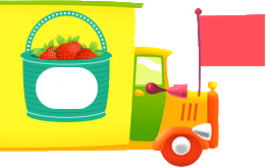
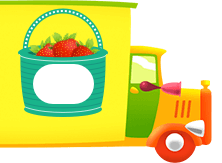
drag, movePos game 1

diff --git a/src/game1.js b/src/game1.js
@@ -1,23 +1,22 @@
 var Game1;
 Game1 = {
-    tail1 : null,
-    tail2 : null,
-    tail3 : null,
-    head1 : null,
-    head2 : null,
-    head3 : null,
-    stage1 : null,
+    tail1: null,
+    tail2: null,
+    tail3: null,
+    head1: null,
+    head2: null,
+    head3: null,
+    stage1: null,
 
-
-    preload: function () {
-        game.load.image("background", "assets/background.png")
-        game.load.image("player", "assets/player.png");
+     preload: function () {
+        game.load.image("background", "assets/background.png");
         game.load.image("tail", "assets/tail.png");
         game.load.image("head", "assets/head.png");
         game.load.image("stage1", "assets/stage1.png");
+        game.load.image("flag","assets/flag1.png")
     },
 
-    create: function () {
+     create: function() {
 
         game.physics.startSystem(Phaser.Physics.ARCADE);
 
@@ -28,23 +27,22 @@ Game1 = {
 
         bounds = new Phaser.Rectangle(game.world.width/2 - 473, 78, 608, 580);
 
-
         this.tail1 = game.add.sprite(this.stage1.x + 100, this.stage1.y + 75, "tail");
         game.physics.arcade.enable(this.tail1);
         this.tail1.inputEnabled = true;
-        this.tail1.input.enableDrag();
+        this.tail1.input.enableDrag(false,false);
         this.tail1.input.boundsRect = bounds;
 
         this.tail2 = game.add.sprite(this.stage1.x + 100, this.stage1.y + this.tail1.height + 100, "tail");
         game.physics.arcade.enable(this.tail2);
         this.tail2.inputEnabled = true;
-        this.tail2.input.enableDrag();
+        this.tail2.input.enableDrag(false,false);
         this.tail2.input.boundsRect = bounds;
 
         this.tail3 = game.add.sprite(this.stage1.x + 100, this.stage1.y + 2*this.tail1.height + 125, "tail");
         game.physics.arcade.enable(this.tail3);
         this.tail3.inputEnabled = true;
-        this.tail3.input.enableDrag();
+        this.tail3.input.enableDrag(false,false);
         this.tail3.input.boundsRect = bounds;
 
         this.head1 = game.add.sprite(this.stage1.x + this.stage1.width - 266 - 75, this.stage1.y + 75, "head" );
@@ -59,101 +57,36 @@ Game1 = {
         game.physics.arcade.enable(this.head3);
         this.head3.body.immovable = true;
 
+        var flag1 = game.add.image(this.head1.x+201,this.head1.y-6,"flag");
+        var flag2 = game.add.image(this.head2.x+201,this.head2.y-6,"flag");
+        var flag3 = game.add.image(this.head3.x+201,this.head3.y-6,"flag");
+
         var style = { font: "32px Arial", fill: "#000"};
         textTail1 = game.add.text(100, 100, 27, style);
         textTail1.anchor.set(0.5);
 
-        var style = { font: "32px Arial", fill: "#000"};
         textTail2 = game.add.text(100, 100, 36, style);
         textTail2.anchor.set(0.5);
 
-        var style = { font: "32px Arial", fill: "#000"};
         textTail3 = game.add.text(100, 100, 8, style);
         textTail3.anchor.set(0.5);
 
-        var style = { font: "32px Arial", fill: "#000"};
         textHead1 = game.add.text(100, 100, 42, style);
         textHead1.anchor.set(0.5);
 
-        var style = { font: "32px Arial", fill: "#000"};
         textHead2 = game.add.text(100, 100, 13, style);
         textHead2.anchor.set(0.5);
 
-        var style = { font: "32px Arial", fill: "#000"};
         textHead3 = game.add.text(100, 100, 34, style);
         textHead3.anchor.set(0.5);
+
     },
 
+ update: function  () {
 
-    update: function () {
-
-        if(game.input.mousePointer.isDown ) {
-            this.tail1.body.velocity.setTo(0, 0);
-        }
-        else {
-            if(this.tail1.x != this.stage1.x + 100) {
-                if (this.tail1.x < this.stage1.x + 325) {
-                    game.physics.arcade.moveToXY(this.tail1, this.stage1.x + 100, this.head1.y, 100, 350);
-                }
-                else {
-                    if (this.tail1.y < this.head2.y-this.head1.height/2){
-                        game.physics.arcade.moveToXY(this.tail1, this.head1.x - this.tail1.width, this.head1.y, 100, 250);
-                    }
-                    else {
-                        if (this.tail1.y < this.head3.y-this.head2.height/2) {
-                            game.physics.arcade.moveToXY(this.tail1, this.head1.x - this.tail1.width, this.head2.y, 100, 250);
-                        }
-                        else game.physics.arcade.moveToXY(this.tail1, this.head1.x - this.tail1.width, this.head3.y, 100, 250);
-                    }
-                }
-            }
-        }
-
-
-        if(game.input.mousePointer.isDown ) {
-            this.tail2.body.velocity.setTo(0, 0);
-        }
-        else {
-            if(this.tail2.x != this.stage1.x + 100) {
-                if (this.tail2.x < this.stage1.x + 325) {
-                    game.physics.arcade.moveToXY(this.tail2, this.stage1.x + 100, this.head2.y, 100, 350);
-                }
-                else {
-                    if (this.tail2.y < this.head2.y-this.head1.height/2){
-                        game.physics.arcade.moveToXY(this.tail2, this.head1.x - this.tail1.width, this.head1.y, 100, 250);
-                    }
-                    else {
-                        if (this.tail2.y < this.head3.y-this.head2.height/2) {
-                            game.physics.arcade.moveToXY(this.tail2, this.head1.x - this.tail1.width, this.head2.y, 100, 250);
-                        }
-                        else game.physics.arcade.moveToXY(this.tail2, this.head1.x - this.tail1.width, this.head3.y, 100, 250);
-                    }
-                }
-            }
-        }
-
-
-        if(game.input.mousePointer.isDown ) {
-            this.tail3.body.velocity.setTo(0, 0);
-        }
-        else {
-            if(this.tail3.x != this.stage1.x + 100) {
-                if (this.tail3.x < this.stage1.x + 325) {
-                    game.physics.arcade.moveToXY(this.tail3, this.stage1.x + 100, this.head3.y, 100, 350);
-                }
-                else {
-                    if (this.tail3.y < this.head2.y-this.head1.height/2){
-                        game.physics.arcade.moveToXY(this.tail3, this.head1.x - this.tail1.width, this.head1.y, 100, 250);
-                    }
-                    else {
-                        if (this.tail3.y < this.head3.y-this.head2.height/2) {
-                            game.physics.arcade.moveToXY(this.tail3, this.head1.x - this.tail1.width, this.head2.y, 100, 250);
-                        }
-                        else game.physics.arcade.moveToXY(this.tail3, this.head1.x - this.tail1.width, this.head3.y, 100, 250);
-                    }
-                }
-            }
-        }
+        this.moveTail(this.tail1,this.stage1.x + 100, this.head1.y);
+        this.moveTail(this.tail2,this.stage1.x + 100, this.head2.y);
+        this.moveTail(this.tail3,this.stage1.x + 100, this.head3.y);
 
         textTail1.x = Math.floor(this.tail1.x + this.tail1.width / 2 + 1);
         textTail1.y = Math.floor(this.tail1.y + this.tail1.height / 2 + 8);
@@ -164,18 +97,49 @@ Game1 = {
         textTail3.x = Math.floor(this.tail3.x + this.tail1.width / 2 + 1);
         textTail3.y = Math.floor(this.tail3.y + this.tail1.height / 2 + 8);
 
-        textHead1.x = Math.floor(this.head1.x + this.head1.width / 2 - 66);
+        textHead1.x = Math.floor(this.head1.x + this.head1.width / 2 - 47);
         textHead1.y = Math.floor(this.head1.y + this.head1.height / 2 + 8 );
 
-        textHead2.x = Math.floor(this.head2.x + this.head1.width / 2 - 66);
+        textHead2.x = Math.floor(this.head2.x + this.head1.width / 2 - 47);
         textHead2.y = Math.floor(this.head2.y + this.head1.height / 2 + 8 );
 
-        textHead3.x = Math.floor(this.head3.x + this.head1.width / 2 - 66);
+        textHead3.x = Math.floor(this.head3.x + this.head1.width / 2 - 47);
         textHead3.y = Math.floor(this.head3.y + this.head1.height / 2 + 8 );
+    },
+
+
+    moveTail: function (a,x,y) {
+        if(game.input.mousePointer.isDown ) {
+            a.body.velocity.setTo(0, 0);
+        }
+        else {
+            if(a.x !== this.stage1.x + 100) {
+                if (a.x < this.stage1.x + 325) {
+                    game.physics.arcade.moveToXY(a, x, y, 100, 100);
+                }
+                else {
+                    if (a.y < this.head2.y-this.head1.height/2){
+                        game.physics.arcade.moveToXY(a, this.head1.x - this.tail1.width, this.head1.y, 100, 100);
+                    }
+                    else {
+                        if (a.y < this.head3.y-this.head2.height/2) {
+                            game.physics.arcade.moveToXY(a, this.head1.x - this.tail1.width, this.head2.y, 100, 100);
+                        }
+                        else game.physics.arcade.moveToXY(a, this.head1.x - this.tail1.width, this.head3.y, 100, 100);
+                    }
+                }
+            }
+        }
 
     },
 
-    endGame: function() {
-        //game.state.start("Start");
+    trueFalse: function (a,x,y) {
+        if(a.x == x) {
+                return true;
+        }
+    },
+
+    nextTurn: function (){
+
     }
 };

diff --git a/src/start.js b/src/start.js
@@ -29,5 +29,5 @@ var Start = {
 
     startGame3: function() {
         game.state.start("Game3");
-    },
+    }
 };
